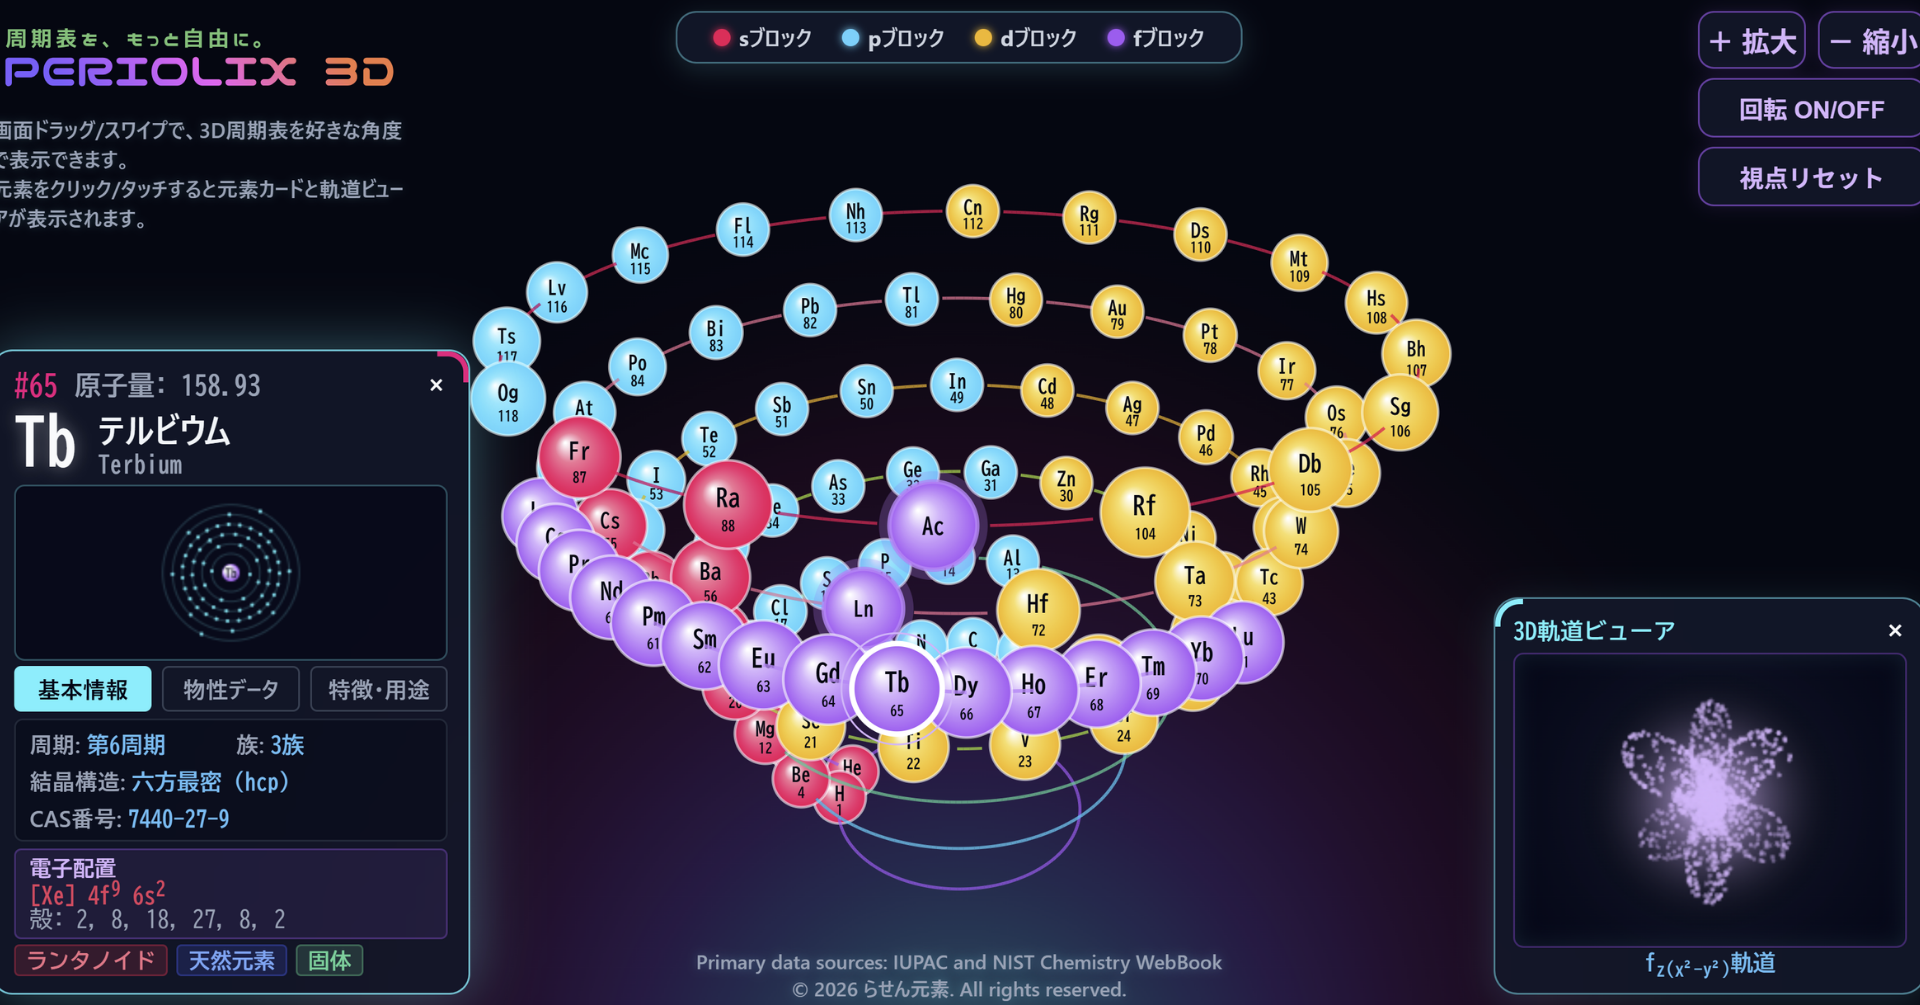
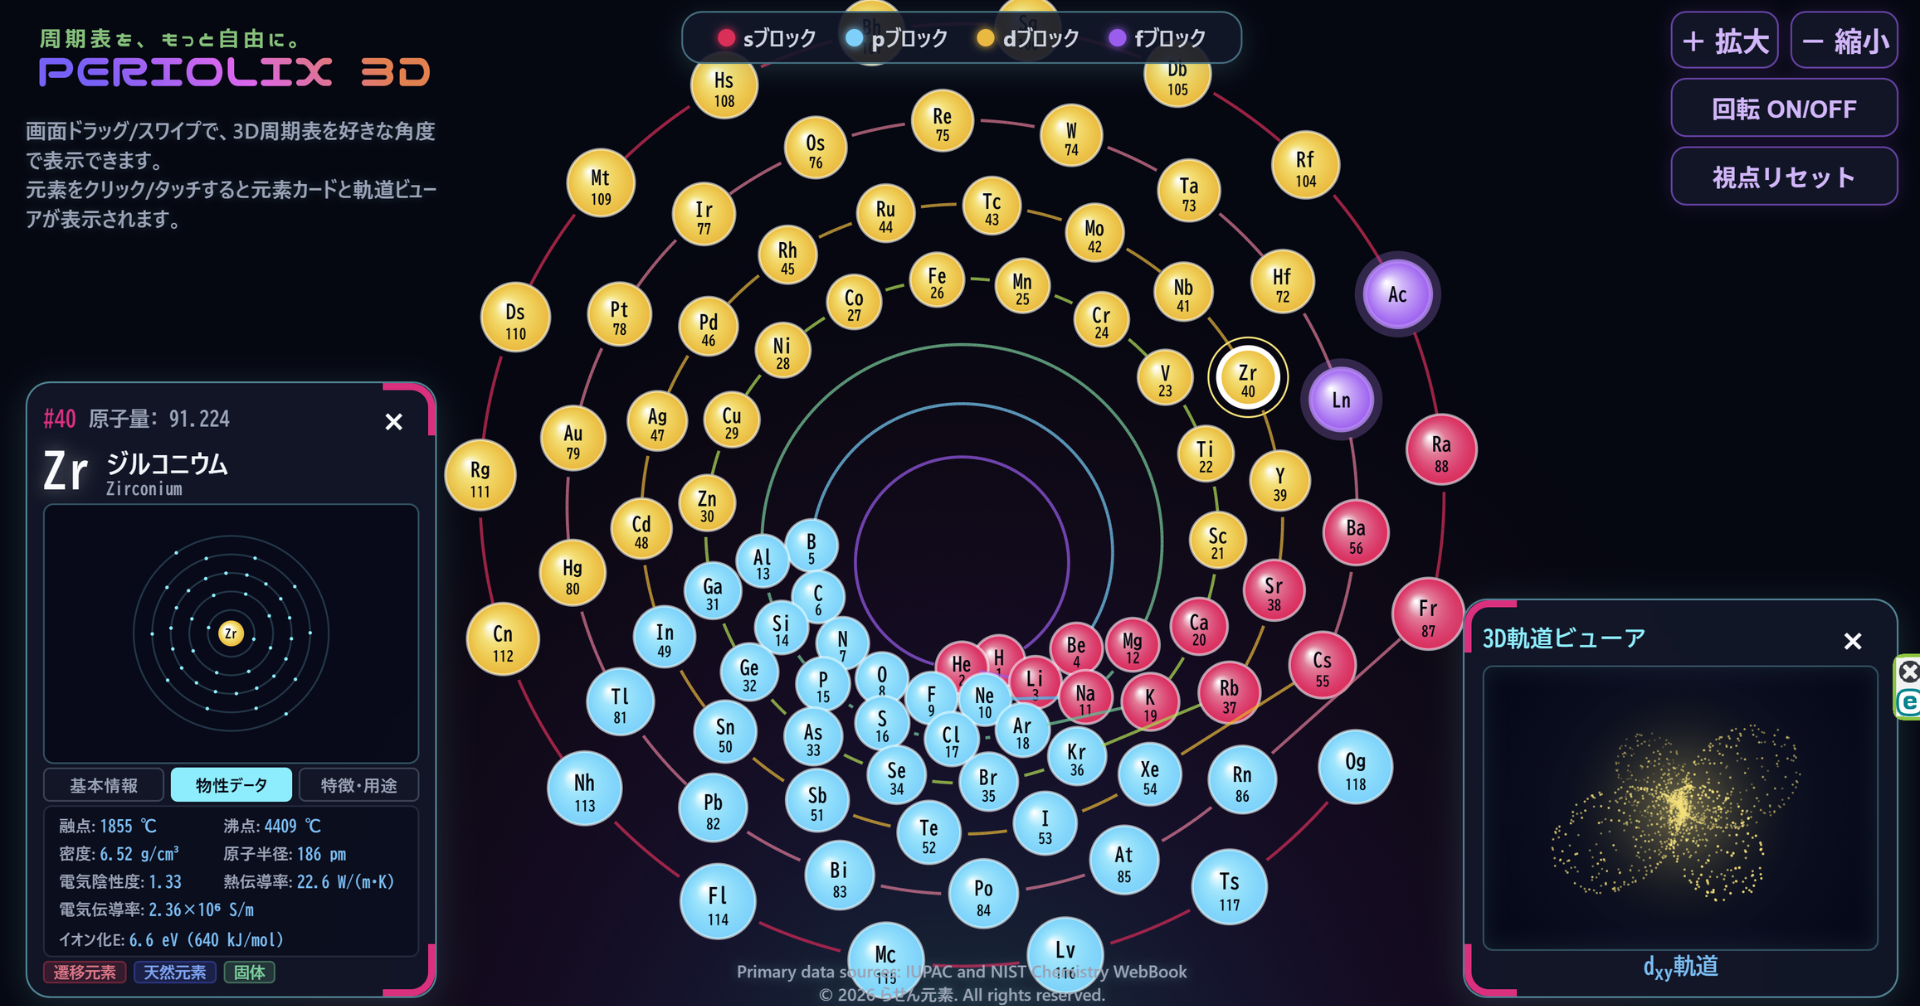
Add files via upload

diff --git a/index.html b/index.html
@@ -718,12 +718,6 @@
             let targetLn = isLanLocked ? 1.0 : 0.0;
             let targetAc = isAcLocked ? 1.0 : 0.0;
 
-            const targetCheckNode = hoveredNode || activeCardNode;
-            if (targetCheckNode) {
-                if (targetCheckNode.num === 'Ln' || (typeof targetCheckNode.num === 'number' && targetCheckNode.num >= 57 && targetCheckNode.num <= 71)) targetLn = 1.0;
-                if (targetCheckNode.num === 'Ac' || (typeof targetCheckNode.num === 'number' && targetCheckNode.num >= 89 && targetCheckNode.num <= 103)) targetAc = 1.0;
-            }
-
             expandLanProgress += (targetLn - expandLanProgress) * 0.12;
             expandAcProgress += (targetAc - expandAcProgress) * 0.12;
 
